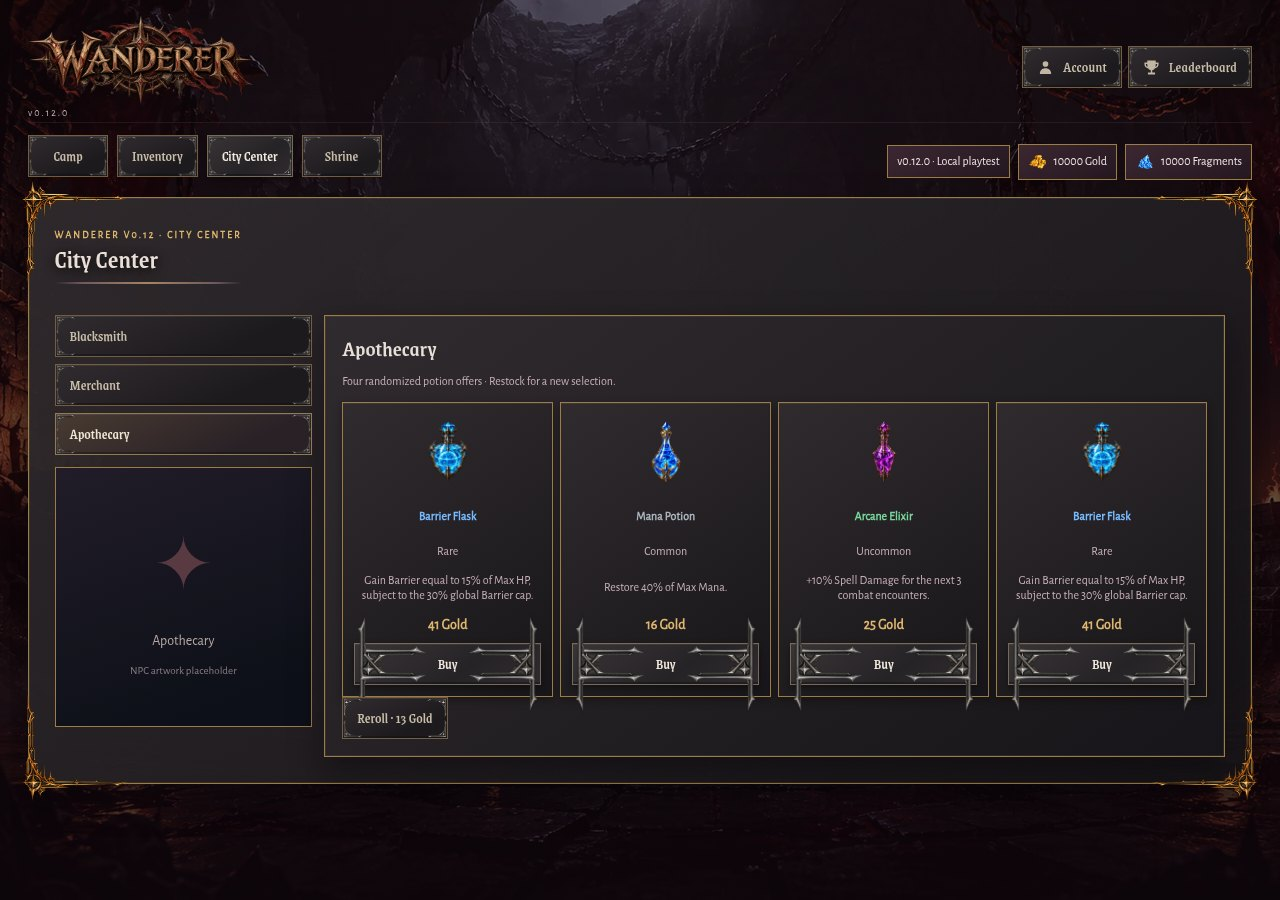
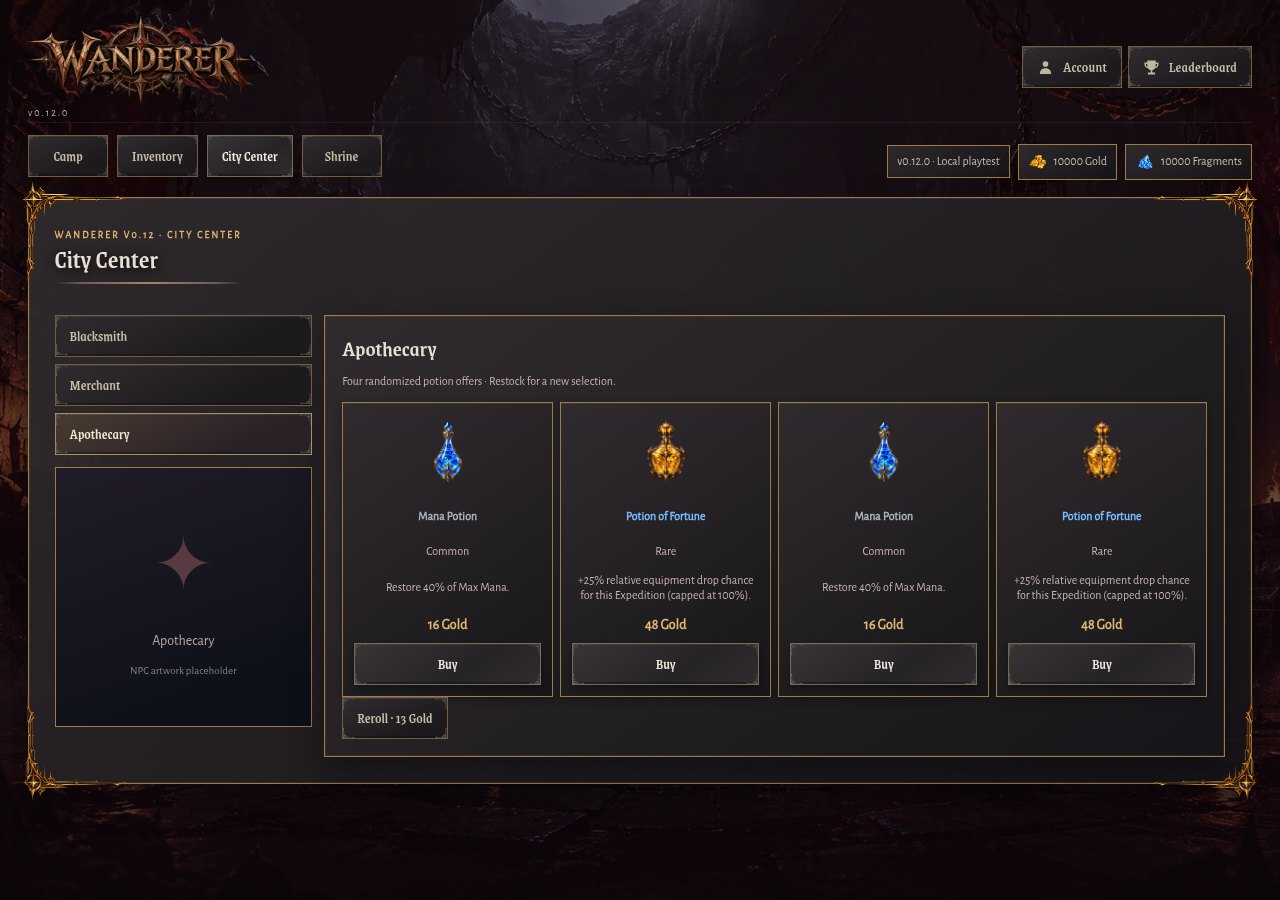
Polish dark surfaces and potion button ornaments

diff --git a/online/ux39.css b/online/ux39.css
@@ -20,7 +20,7 @@
 .phase3IntegratedPreview .inventoryValuables{margin-top:12px}
 .phase3IntegratedPreview .phase3Between{background:linear-gradient(90deg,#100b0bd9,#130e12b0,#100b0bd9),url('../assets/backgrounds/between-realms.webp') center/cover;border-color:#91734a}
 .phase3IntegratedPreview .phase3BetweenLayout{display:grid;grid-template-columns:minmax(0,1fr) minmax(270px,.75fr);gap:18px;align-items:start}
-.phase3IntegratedPreview .phase3BetweenHero{min-width:0;padding:10px;background:#100b0bbd;border:1px solid #705a43;border-radius:10px}
+.phase3IntegratedPreview .phase3BetweenHero{min-width:0;padding:10px;background:var(--ui-panel-bg);border:1px solid var(--ui-edge);border-radius:0}
 .phase3IntegratedPreview .phase3BetweenHero .paper{width:100%;max-width:390px;height:430px;min-height:430px}
 .phase3IntegratedPreview .phase3BetweenHero .paper .slotTile{width:58px;height:66px}
 .phase3IntegratedPreview .phase3BetweenHero .phase3PotionSlots{margin:8px auto 12px;max-width:440px}
@@ -127,12 +127,12 @@
 .phase3IntegratedPreview.phase3CombatView .combatLayout{grid-template-columns:minmax(0,2.2fr) minmax(280px,1fr);align-items:start}
 .phase3IntegratedPreview .combatHeaderControls{display:flex;align-items:center;gap:8px;margin-left:auto}
 .phase3IntegratedPreview .combatHeaderControls #combatSpeed{min-height:44px;white-space:nowrap}
-.phase3IntegratedPreview .combatBagDetails>summary,.phase3IntegratedPreview .phase3BetweenBag>summary,.phase3IntegratedPreview .phase3EquipmentDetails>summary{display:flex;justify-content:space-between;gap:8px;align-items:center;min-height:44px;padding:8px 10px;color:#efd7ae;background:#211823;border:1px solid #735b43;border-radius:8px;cursor:pointer;font-weight:700}
+.phase3IntegratedPreview .combatBagDetails>summary,.phase3IntegratedPreview .phase3BetweenBag>summary,.phase3IntegratedPreview .phase3EquipmentDetails>summary{display:flex;justify-content:space-between;gap:8px;align-items:center;min-height:44px;padding:8px 10px;color:#efd7ae;background:var(--ui-section-bg);border:1px solid var(--ui-edge);border-radius:0;cursor:pointer;font-weight:700}
 .phase3IntegratedPreview .combatBagDetails>summary span,.phase3IntegratedPreview .phase3BetweenBag>summary span{color:#e6bd76}
 .phase3IntegratedPreview .combatBagDetails .phase3Bag,.phase3IntegratedPreview .phase3BetweenBag .phase3Bag{margin:8px 0;max-width:none}
 .phase3IntegratedPreview .combatBagDetails .phase3Bag h3,.phase3IntegratedPreview .phase3BetweenBag .phase3Bag h3{display:none}
 .phase3IntegratedPreview .combatExpeditionDetails .log{max-height:300px;overflow-y:auto;scrollbar-width:thin}
-.phase3IntegratedPreview .combatActiveBuffs{margin:8px 0;padding:6px 10px;background:#17121bdc;border:1px solid #69513f;border-radius:7px}
+.phase3IntegratedPreview .combatActiveBuffs{margin:8px 0;padding:6px 10px;background:var(--ui-section-bg);border:1px solid var(--ui-edge);border-radius:0}
 .phase3IntegratedPreview .combatActiveBuffs .phase3ActiveBuffs{display:flex;align-items:center;gap:10px;flex-wrap:wrap}
 .phase3IntegratedPreview .combatActiveBuffs h3,.phase3IntegratedPreview .combatActiveBuffs p{margin:0}
 .phase3IntegratedPreview .combatExpeditionDetails>h3{margin:10px 0}
@@ -140,7 +140,7 @@
 .phase3IntegratedPreview .combatActions{align-items:center}
 /* UI.2: short summary alongside comparable Realm cards. */
 .phase3IntegratedPreview .phase3BetweenLayout{grid-template-columns:minmax(245px,29%) minmax(0,1fr);gap:14px}
-.phase3IntegratedPreview .phase3BetweenHero{background:#100b0bef}
+.phase3IntegratedPreview .phase3BetweenHero{background:var(--ui-panel-bg)}
 .phase3IntegratedPreview .phase3CharacterSummary{display:flex;gap:10px;align-items:center;padding:6px;border-bottom:1px solid #715a43}
 .phase3IntegratedPreview .phase3CharacterSummary img{width:64px;height:70px;object-fit:contain;flex:none}
 .phase3IntegratedPreview .phase3CharacterSummary div{display:grid;gap:4px;min-width:0}
@@ -196,7 +196,7 @@
 .phase3IntegratedPreview .phase3BetweenTabs [role="tab"]:focus-visible{outline:2px solid #e7bd71;outline-offset:2px}
 .phase3IntegratedPreview .phase3BetweenPane{min-width:0}
 .phase3IntegratedPreview .phase3BetweenPane>[data-between-panel][hidden]{display:none!important}
-.phase3IntegratedPreview .phase3BetweenPane .phase3BetweenHero{width:100%;max-width:none;margin:0;padding:12px;background:#100b0bd9}
+.phase3IntegratedPreview .phase3BetweenPane .phase3BetweenHero{width:100%;max-width:none;margin:0;padding:12px;background:var(--ui-panel-bg)}
 .phase3IntegratedPreview .phase3BetweenEquipmentGrid{display:grid;grid-template-columns:minmax(300px,.86fr) minmax(0,1.14fr);gap:14px;align-items:start}
 .phase3IntegratedPreview .phase3BetweenGear,.phase3IntegratedPreview .phase3BetweenBagPane{min-width:0}
 .phase3IntegratedPreview .phase3BetweenEquipment .equipmentLoadout{display:flex;justify-content:center;min-width:0}

diff --git a/online/v012-phase1.css b/online/v012-phase1.css
@@ -136,13 +136,13 @@
 .phase3IntegratedPreview.phase3RunesView .equipmentLeft,.phase3IntegratedPreview.phase3RunesView .equipmentInventory{display:none}
 .phase3RunesView .equipmentLayout{display:block}
 .phase3BagInventory{display:grid;grid-template-columns:minmax(260px,1fr) minmax(260px,1fr);gap:20px}
-.phase3Bag{max-width:330px;width:100%;margin:12px auto;padding:12px;background:#170f18e8;border:1px solid #846344;border-radius:10px}
+.phase3Bag{max-width:330px;width:100%;margin:12px auto;padding:12px;background:var(--ui-panel-bg,linear-gradient(145deg,rgba(48,43,46,.94),rgba(23,21,25,.92)));border:1px solid var(--ui-edge,#9e7d4433);border-radius:0}
 .phase3Bag h3{display:flex;justify-content:space-between;font-size:16px;color:#efd7ae}
 .phase3BagGrid{display:grid;grid-template-columns:repeat(3,minmax(0,1fr));gap:6px}
-.phase3BagItem,.phase3BagEmpty{min-width:0;min-height:66px;position:relative;display:flex;align-items:center;justify-content:center;background:#201822;border:1px solid #665244;border-radius:6px;padding:5px}
+.phase3BagItem,.phase3BagEmpty{min-width:0;min-height:66px;position:relative;display:flex;align-items:center;justify-content:center;background:var(--ui-section-bg,linear-gradient(145deg,#302b2e 0%,#211e22 48%,#171519 100%));border:1px solid var(--ui-edge,#9e7d4433);border-radius:0;padding:5px}
 .phase3BagItem img{width:46px;height:46px;object-fit:contain;max-width:100%}
-.phase3BagItem>span{position:absolute;bottom:2px;right:4px;font-size:10px;background:#120d18dc;padding:1px 3px;border-radius:3px}
-.phase3BagEmpty{background:#120e1680;border-style:dashed}
+.phase3BagItem>span{position:absolute;bottom:2px;right:4px;font-size:10px;background:var(--ui-section-bg,#211e22);padding:1px 3px;border-radius:0}
+.phase3BagEmpty{background:var(--ui-stat-bg,#11101466);border-style:dashed}
 .phase3BagOverflow{border-top:1px solid #ad7356;margin-top:10px;padding-top:10px;font-size:12px;color:#edbe9c}
 .phase3BagOverflow>.phase3BagGrid{max-height:235px;overflow:auto}
 .phase3CompactPassives{position:relative;min-width:0;margin:12px 0}

diff --git a/online/v012-core.css b/online/v012-core.css
@@ -86,12 +86,12 @@
 
 
 /* Permanent rune inventory and boss reward choice */
-.runePanel{margin-top:15px;padding-top:14px;border-top:1px solid #39495e}
+.runePanel{margin-top:15px;padding-top:14px;border-top:1px solid var(--ui-edge,#9e7d4433)}
 .runeSlots{display:grid;grid-template-columns:repeat(3,minmax(0,1fr));gap:7px;margin:10px 0}
-.runeSlot{border:1px solid #53627a;border-radius:9px;min-width:0;padding:8px;display:flex;flex-direction:column;gap:7px}
+.runeSlot{border:1px solid var(--ui-edge,#9e7d4433);border-radius:0;min-width:0;padding:8px;display:flex;flex-direction:column;gap:7px;background:var(--ui-panel-bg,linear-gradient(145deg,rgba(48,43,46,.94),rgba(23,21,25,.92)))}
 .runeSlot span{overflow-wrap:anywhere}.runeCollection,.runeOffers{display:grid;grid-template-columns:repeat(auto-fit,minmax(150px,1fr));gap:7px;margin-top:10px}
-.runeCard{white-space:normal;text-align:left;padding:10px;border:1px solid #826baf;border-radius:9px;background:#251e36;color:#e8d6ff;line-height:1.5}
-.runeCard.runeEquipped{border-color:#b99aff;background:#382b50}
+.runeCard{white-space:normal;text-align:left;padding:10px;border:1px solid var(--ui-edge,#9e7d4433);border-radius:0;background:var(--ui-section-bg,linear-gradient(145deg,#302b2e 0%,#211e22 48%,#171519 100%));color:#e8d6ff;line-height:1.5}
+.runeCard.runeEquipped{border-color:#b99aff;background:var(--ui-panel-bg,linear-gradient(145deg,rgba(48,43,46,.94),rgba(23,21,25,.92)))}
 .runeCollection .runeCard{display:flex;flex-direction:column;gap:7px;min-width:0;padding:8px}
 .runeCollection .runeCard [data-rune-equip]{display:block;width:100%;text-align:left;background:transparent;border:0;white-space:normal;color:inherit;padding:4px;cursor:pointer}
 .runeCollection .runeCard [data-rune-equip]:focus-visible{outline:2px solid #d6b4fb;outline-offset:2px}

diff --git a/online/v012-ui4f.css b/online/v012-ui4f.css
@@ -123,6 +123,34 @@
   border-color:var(--ui-edge);
   border-radius:0;
 }
+.phase3IntegratedPreview :is(
+  .runePanel,.runeSlot,.runeCollection .runeCard,
+  .combatLayout>.panel,.combatActiveBuffs,.combatExpeditionDetails,
+  .combatExpeditionDetails .log,.phase3BetweenPane,.phase3BetweenEquipment .paper,
+  .phase3BagItem,.phase3BagEmpty,.phase3CombatBuild,.phase3ActiveAffinities,
+  .phase3CombatAffinityGroup,.combatRuneReadout
+){
+  background:var(--ui-panel-bg);
+  border-color:var(--ui-edge);
+  border-radius:0;
+}
+.phase3IntegratedPreview .runePanel{border-top-color:var(--ui-edge)}
+.phase3IntegratedPreview .runeCollection .runeCard.runeEquipped{background:var(--ui-section-bg)}
+.phase3IntegratedPreview .phase3BagGrid{background:transparent;border:0;padding:0}
+.phase3IntegratedPreview .phase3BagEmpty{background:var(--ui-stat-bg);border-style:dashed}
+.phase3IntegratedPreview .phase3BagItem{background:var(--ui-section-bg)}
+.phase3IntegratedPreview .token{
+  background:var(--ui-panel-bg);
+  border-color:var(--ui-edge);
+  border-radius:0;
+  color:var(--ui-muted);
+}
+.phase3IntegratedPreview .token b{color:var(--ui-ink)}
+.phase3IntegratedPreview .combatActiveBuffs{background:var(--ui-section-bg)}
+.phase3IntegratedPreview .combatExpeditionDetails .log{background:var(--ui-section-bg)}
+.phase3IntegratedPreview .phase3BetweenEquipment .paper{background:var(--ui-panel-bg)}
+.phase3IntegratedPreview :is(.phase3CombatBuild,.phase3ActiveAffinities,.combatRuneReadout){background:var(--ui-panel-bg)}
+.phase3IntegratedPreview .phase3CombatAffinityGroup{background:var(--ui-section-bg)}
 .phase3IntegratedPreview .equipmentInventory :is(
   .stashCapacityBar,.stashGrid,.inventoryValuables,.potionStash
 ){

diff --git a/online/v012-ui5-camp.css b/online/v012-ui5-camp.css
@@ -51,9 +51,10 @@ body.phase3IntegratedPreview:has(.phase3Camp) .phase3Nav button:focus-visible{
   outline:2px solid var(--gothic-highlight-gold);outline-offset:3px;
 }
 body.phase3IntegratedPreview:has(.phase3Camp) #wallet .token{
-  border-color:#665538;background:linear-gradient(145deg,#302a2c,#1a181b);
-  color:var(--gothic-parchment);box-shadow:inset 0 1px #ffffff10;
+  border-color:var(--ui-edge);background:var(--ui-panel-bg);
+  color:var(--ui-muted);box-shadow:inset 0 1px #ffffff10;border-radius:0;
 }
+body.phase3IntegratedPreview:has(.phase3Camp) #wallet .token b{color:var(--ui-ink)}
 
 /* GothicPanel / GothicFrame: CSS corners, trim and layered iron surfaces. */
 .phase3IntegratedPreview #screen>.phase3Camp{

diff --git a/online/v012-gothic-panels.js b/online/v012-gothic-panels.js
@@ -125,7 +125,7 @@
       panel.classList.remove(...sizes.map(value => `gothic-panel--${value}`), 'gothic-panel--ornate', 'gothic-panel--standard');
       panel.classList.add('gothic-button-ornamented');
       const rect = panel.getBoundingClientRect();
-      const cornerSize = Math.max(9, Math.min(22, rect.height * .48, rect.width * .24));
+      const cornerSize = Math.max(8, Math.min(13, rect.height * .30, rect.width * .12));
       if (panel.style.getPropertyValue('--gothic-corner-size') !== `${cornerSize}px`) {
         panel.style.setProperty('--gothic-corner-size', `${cornerSize}px`);
       }

diff --git a/online/v012-gothic-panels.css b/online/v012-gothic-panels.css
@@ -124,6 +124,15 @@ body.phase3IntegratedPreview :is(
   user-select: none;
 }
 
+/* Component image rules (for example, Potion offer artwork) must not resize
+   the decorative PNGs nested in a button's corner layer. */
+body.phase3IntegratedPreview .gothic-corner-layer > .gothic-corner {
+  width: var(--gothic-corner-size);
+  height: auto;
+  max-width: none;
+  object-fit: contain;
+}
+
 /* Anchor each PNG's actual frame line to the CSS border. The source art has
    transparent/inset margins, so zero offsets place its lines inside the panel. */
 .gothic-corner--tr {

diff --git a/docs/homepage-ui-consistency-audit.md b/docs/homepage-ui-consistency-audit.md
@@ -81,3 +81,9 @@ Foi identificado que `stashGrid`, `stashCapacityBar` e `inventoryJumpNav` ainda 
 Verificação adicional: `v012-gothic-three-tier-browser.cjs` **PASS** em 390px e 1440px, comparando fundos/contornos computados; `v012-complete-browser.cjs` **PASS** em 390px e 1280px, com novas capturas do Inventory. Safari continua pendente.
 
 Nenhum teste foi usado como evidência sobre gameplay, economia ou balanceamento.
+
+## Correções visuais adicionais — Shrine, Combat, Between Realms e poções
+
+A verificação das capturas mobile encontrou estilos antigos ainda aplicados aos cartões de Runas do Shrine, blocos de build/Runas de Combat, bag de Between Realms e tokens Gold/Fragments. Essas superfícies agora usam os tokens escuros da Home, mantendo ícones e cores semânticas. No Apothecary, a regra genérica `.potionOffer img` estava a impor 62 px de altura aos quatro PNGs decorativos dos botões; a camada de ornamentos agora preserva o tamanho SMALL calculado e a proporção original.
+
+Validação Chromium: `node tests/v012-complete-browser.cjs` **PASS** em 390px e 1280px. O harness confirma a superfície dos tokens, Shrine, Combat, Between Realms, quatro ornamentos pequenos contidos por botão de poção e os percursos funcionais existentes. Capturas atualizadas: [Shrine mobile](homepage-ui-consistency-screenshots/after/shrine-390.jpg), [Combat mobile](homepage-ui-consistency-screenshots/after/combat-390.jpg), [Between Realms mobile](homepage-ui-consistency-screenshots/after/between-equipment-390.jpg), [Apothecary mobile](homepage-ui-consistency-screenshots/after/city-apothecary-390.jpg). Safari continua pendente.
